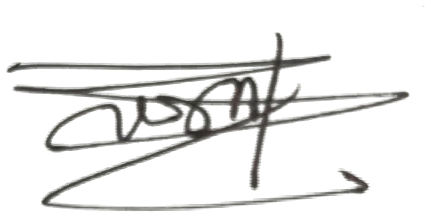
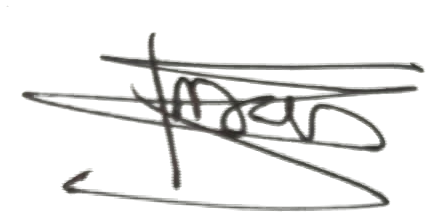
admission: un-mirror Academic signature (horizontal flip) + cache-bust v=2

Changed region(s): [[0.0, 0.1376, 0.9954, 0.9908]]

diff --git a/src/components/admission/shared.tsx b/src/components/admission/shared.tsx
@@ -355,7 +355,7 @@ export function SignatureModal({
  * (per-admission value) always overrides these defaults.
  */
 export const OFFICE_SIGNATURES = {
-  academic: "/site/signature-academic.png?v=1",
+  academic: "/site/signature-academic.png?v=2",
   principal: "/site/signature-principal.png?v=1",
 } as const;
 
